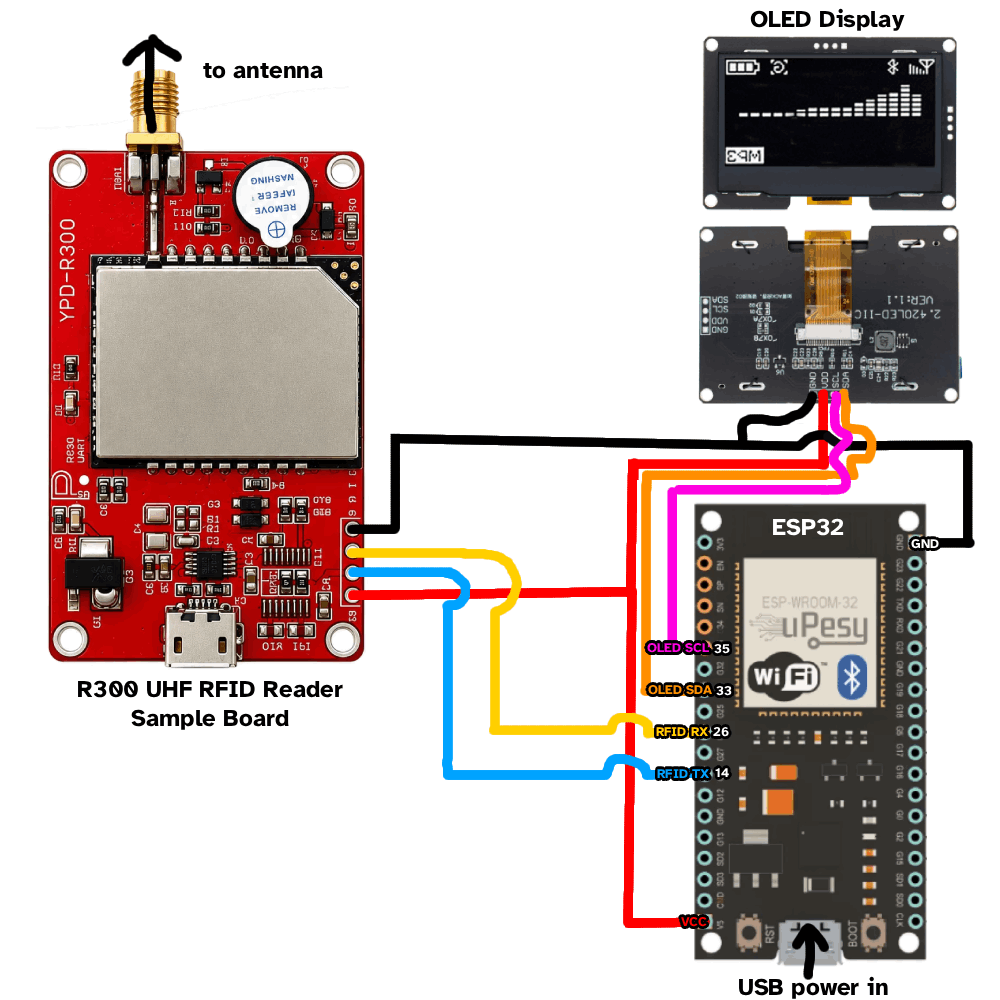
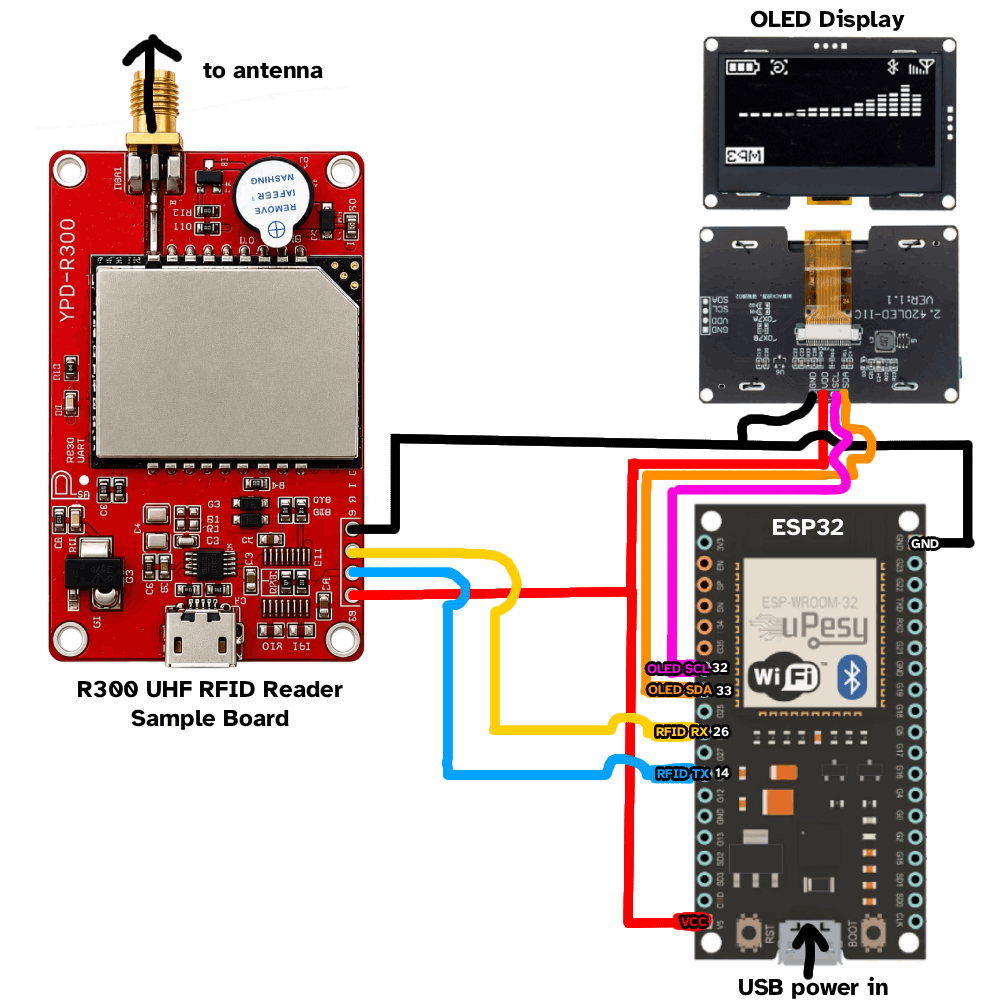
reflections, fix wiring diagram

Changed region(s): [[0.62, 0.62, 0.744, 0.806], [0.682, 0.899, 0.713, 0.93]]

diff --git a/README.md b/README.md
@@ -1,24 +1,46 @@
-# UHF-RFID-Inventory-System (Emma's RFID Thing)
+# UHF RFID Tool Inventory System - "Emma's RFID Thing"
+
+### A low-cost, ESP32-based UHF RFID system that automatically checks whether your tools are accounted for.
 
 https://github.com/user-attachments/assets/c475d00b-563d-4544-90bf-386b262ad7c9
 
-_Goofin'_
+_"RFID Goofin'" with the range turned down for a demo_
 
 <img width="250" alt="image" src="docs/images/1.png" /><img width="250" alt="image" src="docs/images/2.png" /><img width="250" alt="image" src="docs/images/3.png" />
 
-_The screen indicates that 6 out of 8 known items have been found. The missing items are identified as my macbook charger (CHRG) and my label maker (LABEL)._
+_The display shows 6 of 8 expected items detected. The missing items are identified as my MacBook charger (CHRG) and label maker (LABEL)._
 
 ---
 
 ## Abstract
 
-Here I present a low cost RFID Inventory System for tracking my work tools. The USB-powered device sits in my car and tells me when I forget a tool on the job site. Costing around $120 in materials, this self contained device is capable of reliably identifying UHF RFID tags from 10-20 feet away, even when they are occluded by other (non metal) objects. This makes it ideal for detecting if an item is in my car or not. If all of my tagged tools are present and accounted for, a check mark is displayed on the screen, indicating I'm good to go. If any tools are missing, an X mark and a list of missing tools is shown. This allows me to quickly assess if I have all of my tools and has already prevented several expensive mistakes.
+I built a low-cost UHF RFID inventory system to keep track of my work tools. The USB-powered device sits in my car and checks whether I've left anything behind at a job site.
+
+Costing approximately $120 in materials, this self-contained device combines an ESP32, a UHF RFID reader, a circularly polarized antenna, and an OLED display. It can detect passive UHF RFID tags from 10–20 feet away with only a slight reduction in range for some obstructed configurations.
+
+The concept is simple: I attach RFID stickers to the tools I care about, and the device checks for their presence automatically. If every expected tag is detected, a check mark appears on the screen, indicating I am ready to leave. The names of any missing items are displayed on the screen during scanning.
+
+This makes it easy to check whether my tools are accounted for before leaving a job site, and the system has already helped me avoid several expensive mistakes.
+
+## Key Features
+
+- Nearly instant detection of multiple tags.
+
+- Matches detected EPC identifiers against a predefined list of saved tools.
+
+- OLED display shows scan progress and identifies outstanding items.
+
+- Provides a clear visual indication when all expected tags have been found.
+
+- Uses a low cost microcontroller and off the shelf RFID hardware.
+
+- Includes documentation of firmware, hardware, and 3D-printable enclosure files for reproducibility.
 
 ## Motivation
 
-I was recently at TopGolf, which uses RFID, alongside other technologies, for realtime tracking of golf balls as they fly through the air. I found it really amazing that they could differentiate between dozens of moving objects, across a giant driving range, all in real-time. What I found even more amazing was that this required no active electronics in the balls themselves, just a passive RFID tag.
+I was recently at Topgolf, which uses RFID alongside other technologies to track golf balls across its driving ranges. I found it fascinating that RFID could help identify objects among many others in a large area, without requiring each object to carry its own battery-powered electronics.
 
-This led me to think about the actual limits of RFID technology. I was particularly interested in what concepts could be created around the idea of tracking tagged objects from a distance. I had just lost an expensive work tool and was pretty bummed out about it, so the prospect of an RFID inventory system sounded great.
+That got me thinking about the practical limits of RFID technology and what I could build with it. I'd just lost an expensive work tool and was pretty bummed out about it, so an automated inventory system sounded like a great idea.
 
 **Here's the concept: I put RFID stickers on the stuff I care about, and a reader in my car tells me me if any items are missing.**
 
@@ -26,22 +48,25 @@ This led me to think about the actual limits of RFID technology. I was particula
 
 <img width="500" src="docs/images/explainer.gif" />
 
-RFID uses the fact that radio waves can both bounce off of and be absorbed by objects depending on material properties.
+RFID (Radio-Frequency Identification) uses radio waves to communicate with tags attached to objects. Passive UHF RFID tags don't need their own batteries: they harvest energy from the reader's radio signal and use that energy to respond.
 
 <details>
-<summary>An Aside: The history of RFID</summary>
+<summary>An Aside: RFID in History</summary>
 
 > <img width="250" src="docs/images/soviet_thing.png" />
 
-> During the tail end of World War II, the United State's Ambassador to the Soviet Union received a carved wooden emblem as a gift. Innocuous enough and hand delivered by Moscow schoolchildren, this eagle carving was proudly displayed in the Ambassador's Moscow residence. Hidden inside, however, was a sophisticated listening device that used the principal behind RFID to encode messages in radio wave reflections. The device, which became known as the Thing, needed no battery or power source. Instead, it relied on a radio antenna stationed nearby to broadcast a signal. Radio waves can both bounce off of and be absorbed by objects. A microphone inside the carving would vary how much of the signal gets absorbed, which impacts the signal reflected back. By detecting variations in signal's reflection, audio information could be decoded. This system was used to spy on the United States government, without detection, for nearly 7 years.
+> During the final months of World War II, the United States ambassador to the Soviet Union received a carved wooden Great Seal as a gift. The carving was displayed in the ambassador's residence in Moscow, where it concealed a sophisticated listening device that went undetected for years.
+> Known as The Thing, the device was passive: it had no battery of its own. Instead, an antenna inside the Thing would pick up ona radio signal from a van outside, reflecting parts of it back. A special microphone was used to change the antenna's properties, varying the signal reflected back towards the source.
+> By detecting variations in this reflection, the USSR could recover the audio.
+> The device was discovered in 1952, after being used to eavesdrop on the American diplomatic mission for approximately 7 years. The Thing wasn't a conventional digital RFID tag, but its use of radio backscatter makes it an interesting historical parallel to modern passive RFID technology.
 
 </details>
 
 An RFID reader sends out a 860-960MHz radio signal, called the carrier wave. Some of this signal is absorbed by the tag's antenna and converted into power for a tiny computer on board. By changing the antenna's properties to selectively absorb more or less of the carrier wave, the reflected wave can be changed. This change in the reflection back is detected by the reader. This means the tag's computer can "send" data back without using any additional power.
 
-The on-tag computer implements EPC, a communication and data storage protocol centered around reducing radio signal collisions. Further Reading: Anti Collision Algorithms
+The on-tag computer implements EPC Gen2, a communication and data storage protocol centered around reducing radio signal collisions. Further Reading: Anti Collision Algorithms
 
-RFID's has become ubiquitous, with a wide range of uses ranging from supply chain and warehouse inventory management, to microchipping your pets and stopping retail theft.
+RFID's has become ubiquitous, with a wide range of uses ranging from supply chain and warehouse inventory management, to microchipping pets and stopping retail theft.
 
 Because of this, our friends in Shenzhen, China have discovered ways of making this technology surprisingly accessible. Sample boards and high range antenna kits are widely available on Chinese Marketplaces like AliExpress.
 
@@ -58,7 +83,7 @@ Because of this, our friends in Shenzhen, China have discovered ways of making t
 | GPIO 14   | RFID TX                     |
 | GPIO 26   | RFID RX                     |
 | GPIO 33   | OLED SDA                    |
-| GPIO 35   | OLED SCL                    |
+| GPIO 32   | OLED SCL                    |
 
 ### Parts List
 
@@ -76,7 +101,9 @@ I chose a 2.42" SSD1309 128x64 OLED Display for size and cost. The size of this 
 
 4. ESP32
 
-Any microcontroller should work though.
+Other microcontrollers should work though. ESP32 is probably overkill for this.
+
+---
 
 I was able to source the RFID reader board and antenna together from AliExpress for just under $100. I got the display from Amazon for $15 and the ESP32 for $5. Coming in at $120 total, this device is surprisingly economical for its functionality.
 
@@ -95,3 +122,23 @@ The electronics are held in a 3D printed case. STL files are available. If you'd
 <img width="750" src="docs/images/chart_detailed.svg"/>
 
 The ESP32 software only needs to periodically send inventory commands to the reader and listen for tag data back in response. The RFID board handles all of the actual RFID inventorying, collision avoidance, and nitty-gritty communication details. All the ESP32 has to do is issue "start inventory" commands and wait for tags to be detected. By default, the device will scan for all saved tags in the vicinity. Once all tags are read, the device shows a check mark and puts the processor to sleep. If, instead after 5 minutes, not all saved tags have been found, an X mark is instead displayed alongside a list of missing tools.
+
+## Results and Testing
+
+The antenna is positioned in the magazine holder behind the front passenger seat. Despite this less-than-ideal placement, performance has been stellar, exceeding my expectations for both detection range and reliability. This is likely due to the car trapping and reflecting the radio signal around, allowing even directly occluded objects to be illuminated.
+
+<img width="500" src="docs/images/occlusion.png"/>
+
+_Tag #2 is occluded by Tag #1_
+
+<img width="500" src="docs/images/occlusion_reflection.png"/>
+
+_Despite the lack of direct line of sight, reflections within the enclosed space may allow Tag #2 to receive enough RF energy to respond to the reader._
+
+## Notes
+
+- The RFID reader gets HOT when run continuously! To help mitigate this I placed a small heatsink on the RFID board's processor and oversized the cable outlet holes for airflow. This isn't a big problem in practice as the inventory cycle only lasts 5 minutes before timing out.
+
+- The casing has a split in it to allow adding/removing the assembled wires and electronics easily.
+
+- I placed the ESP32 on a protoboard with socket headers. This fills out the provided space nicely and makes the ESP32 swappable. You'll need to modify the 3D printed case if you don't have a 60mm X 80mm protoboard lying around to place the microcontroller on.
